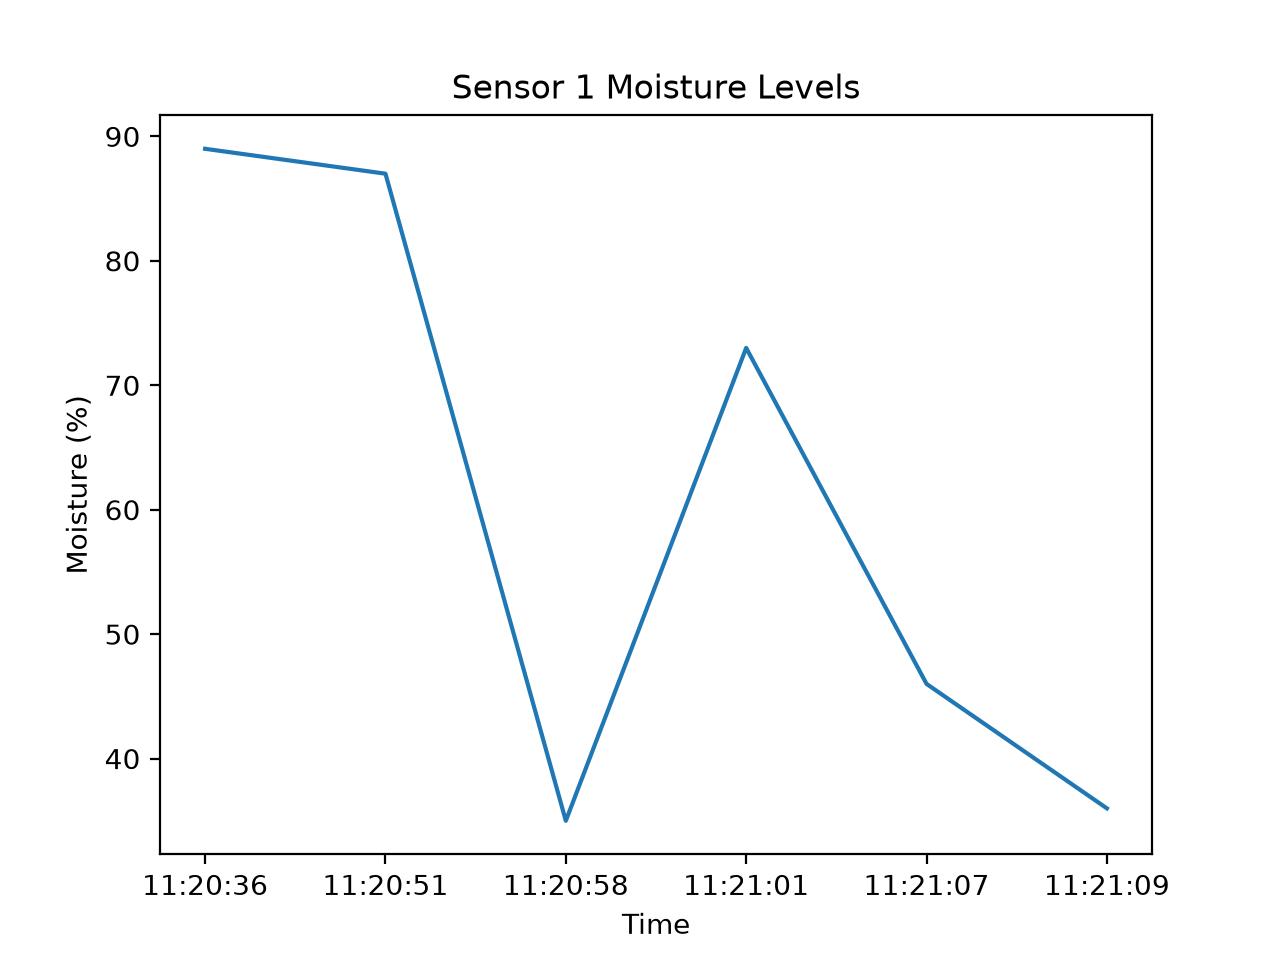
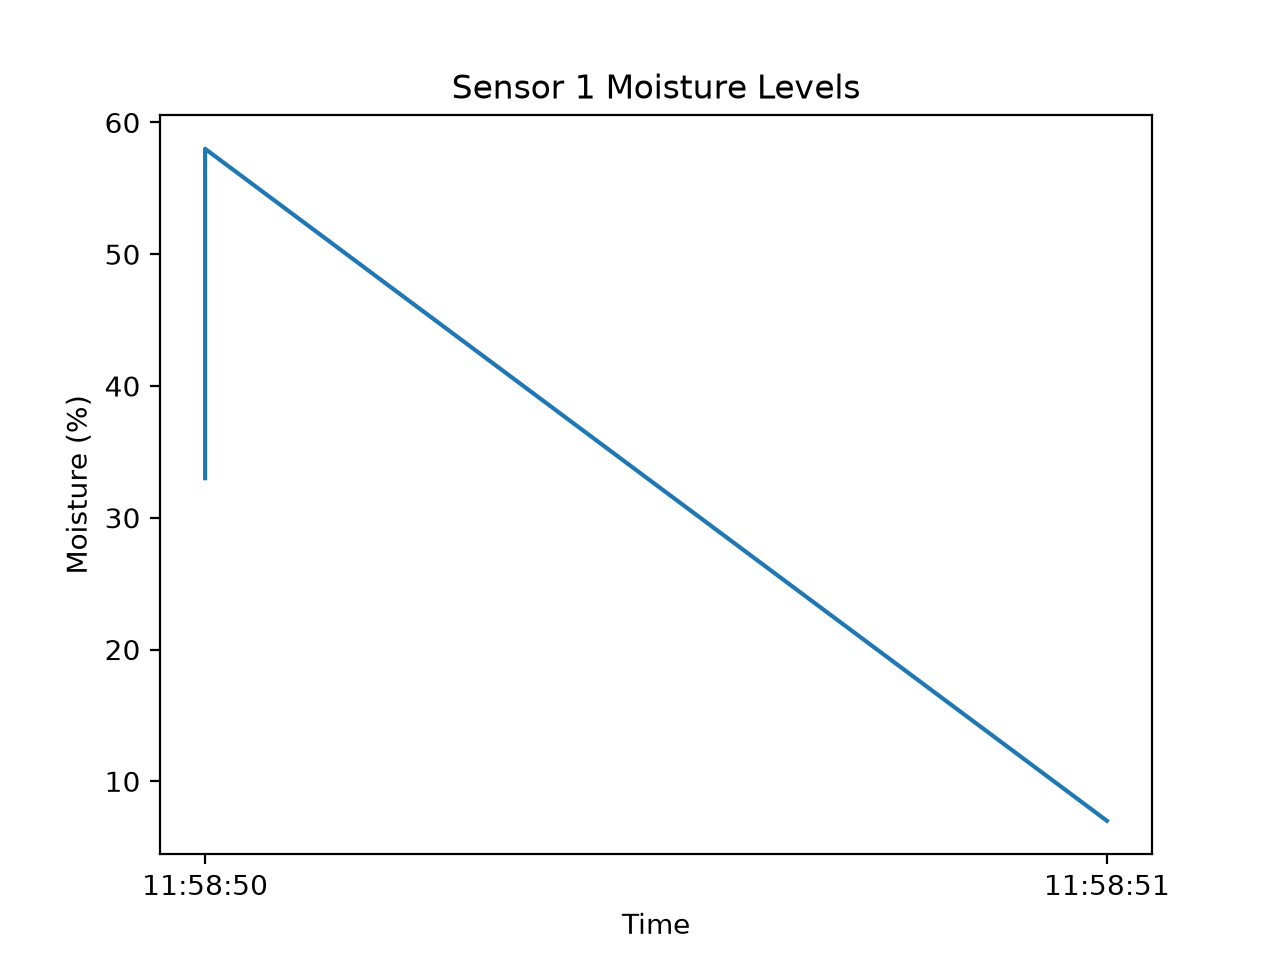
other files updated i forgot

diff --git a/main.py b/main.py
@@ -2,8 +2,20 @@ from fastapi import FastAPI
 from pydantic import BaseModel
 from datetime import datetime
 import mysql.connector
+import uvicorn
+
+#IDK WHY ITS SO FUCKED
+#run with `uvicorn main:app`
+
+global app 
+app = FastAPI()
+
 
 def main():
+
+
+    print("test")
+
     soil_db = mysql.connector.connect(
         host = "localhost",
         user = "feb",
@@ -19,11 +31,9 @@ def main():
         moisture : float
         time : str
 
-    app = FastAPI()
 
     @app.post("/readings/")
     async def readings(item: sensor):
-        print(item)
 
         sql = "INSERT INTO sensors (sensor_id, moisture, timestamp) VALUES (%s, %s, %s)"
         values = (item.sensor_id, item.moisture, item.time)
@@ -33,6 +43,15 @@ def main():
 
         return item.sensor_id, item.moisture, item.time
 
-    
-if __name__ == '__main__':
-    main()
+
+
+    @app.get("/data")
+    async def get_readings():
+        sql = ("SELECT * FROM sensors WHERE sensor_id= 1") #currently just gives one but make this a variable 
+
+        my_cursor.execute(sql)
+        result = my_cursor.fetchall()
+
+        return(result)
+
+main()

diff --git a/analysis.py b/analysis.py
@@ -1,6 +1,7 @@
 import mysql.connector
 import pandas as pd
 import matplotlib.pyplot as plt
+import requests
 
 
 soil_db = mysql.connector.connect(
@@ -34,7 +35,13 @@ plt.ylabel('Moisture (%)')
 plt.title('Sensor 1 Moisture Levels')
 plt.savefig("test_fig.png", dpi=200)
 
+fig = plt.figure()
+print(len(fig))
+
 soil_db.commit()
+
+response = requests.post('http://127.0.0.1:8000/graphs/', data=fig)
+print(response)
 
 
 ''' CALCULATING AVERAGE FROM result VARIABLLE
